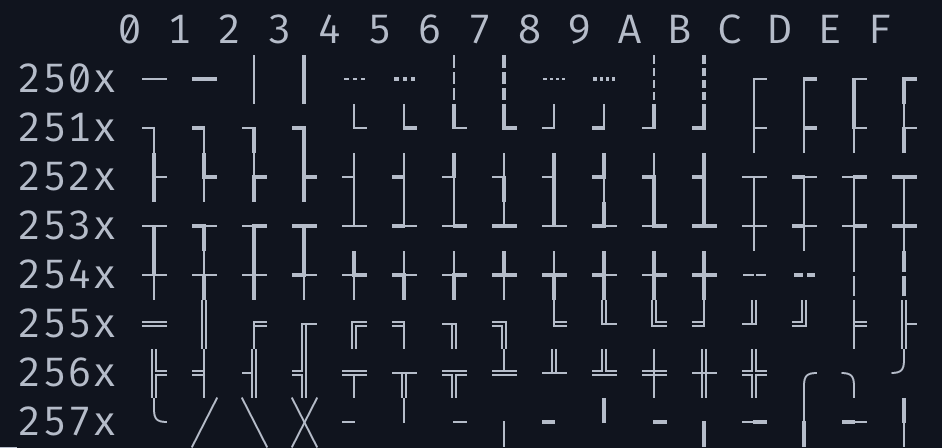
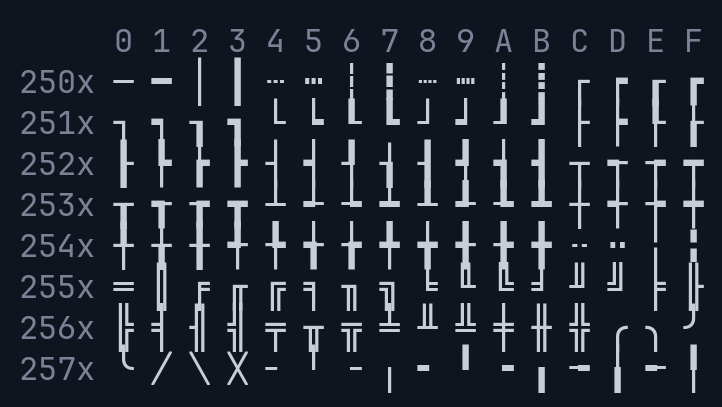
Shrink the box drawing chart and align its column labels

diff --git a/content/2026-11-13-cell-borders/index.md b/content/2026-11-13-cell-borders/index.md
@@ -24,7 +24,7 @@ this.
 The usual way is the Unicode Box Drawing block, which has 128 characters for lines, corners and
 joins. Somehow that's still not enough:
 
-[![The Unicode Box Drawing block, U+2500 to U+257F, rendered in Ghostty](box-drawing-block.png)](box-drawing-block.png)
+<a href="box-drawing-block.png"><img src="box-drawing-block.png" width="361" alt="The Unicode Box Drawing block, U+2500 to U+257F, in a 16 by 8 grid with hex row and column labels"></a>
 
 So I've been working on a terminal protocol that draws thin lines on the edges of cells instead.
 I've got it working as [a patch to Ghostty][branch] (and [an earlier version in
